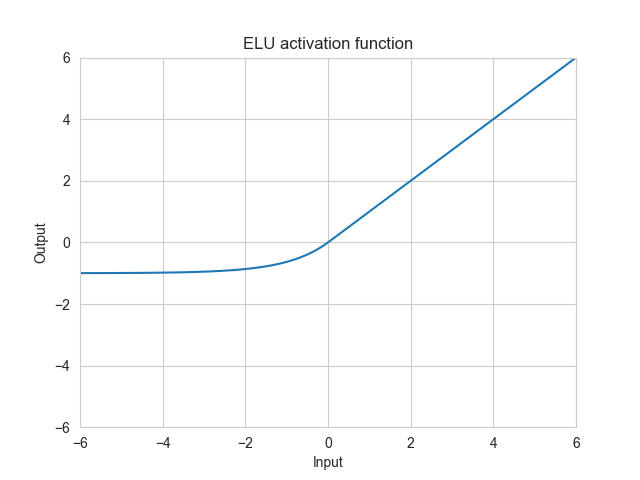
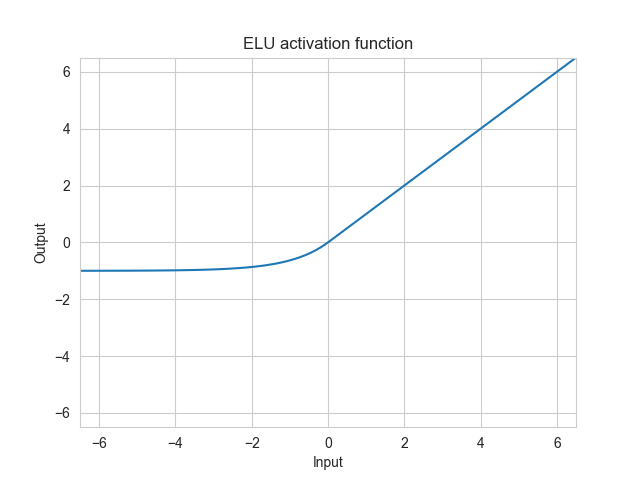
init

diff --git a/make.py b/make.py
@@ -31,15 +31,15 @@ def get_activations():
 
 def draw(activation):
     name = activation.__class__.__name__
-    x = torch.linspace(-6, 6, 100)
+    x = torch.linspace(-6.5, 6.5, 100)
     y = activation(x)
 
     plt.figure()
     plt.plot(x, y)
     plt.xlabel("Input")
     plt.ylabel("Output")
-    plt.xlim(-6, 6)
-    plt.ylim(-6, 6)
+    plt.xlim(-6.5, 6.5)
+    plt.ylim(-6.5, 6.5)
     plt.title("{} activation function".format(name))
     plt.savefig("fig/{}.png".format(name))
     plt.close()
